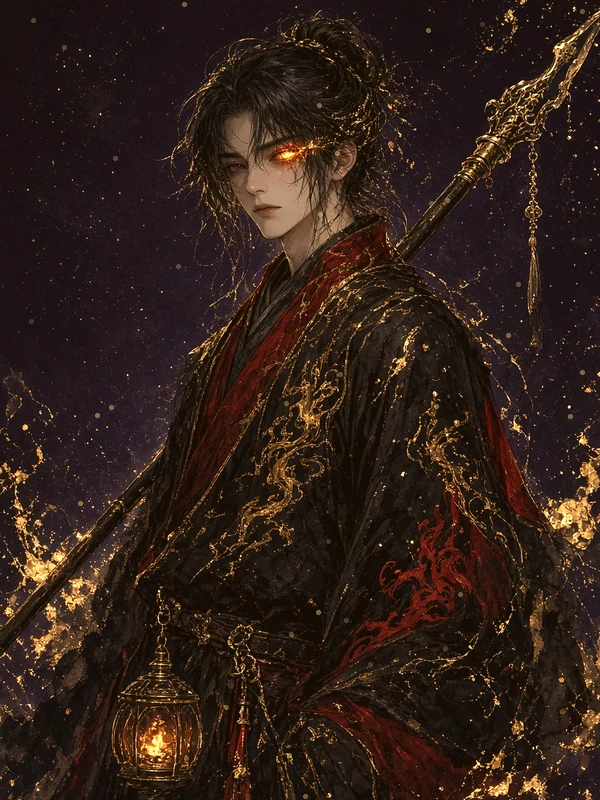
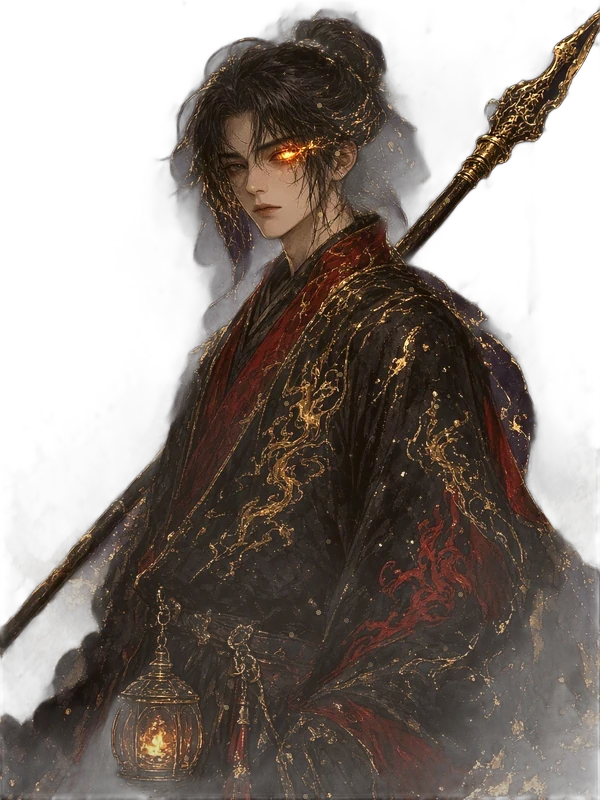
修复：主角朝向反了、界面卡死无出口、标题按钮堆叠
- 晏归原画朝左，行走/冲刺残影/探索按原画朝向翻转（heroFlip），不再倒着走
- 每个界面都有出口：VN 加「主城」，菜单加「回主城」，教学可跳过，安卓返回键按层级关闭（查看器→奖励→教学→面板→屏幕）
- 出征前清理残留界面/面板，修复关卡详情面板盖在战斗上导致暂停键点不动、重复叠加战斗循环
- 标题页精简为点击任意处进入，去掉多余角标按钮；继续游戏直接回主城
- 立绘去底（RGBA）

diff --git a/app/src/main.js b/app/src/main.js
@@ -8,7 +8,7 @@ import './premium.css';
 import './improvements.css';
 import { addMember, healAll, S, settings, meta, saveMeta, newGame, setToast, load, save, AUTO, ach, slotInfo, SAVE_SLOTS } from './engine/state.js';
 import { initAudio, playBgm, stopBgm } from './engine/audio.js';
-import { h, toast, asset } from './engine/ui.js';
+import { h, toast, asset, confirmBox } from './engine/ui.js';
 import { vnScreen, runMain, restoreScene, hooks, stopVN, clearBacklog, STORY } from './engine/vn.js';
 import { battle } from './engine/battle.js';
 import { titleScreen, worldScreen, regionScreen } from './ui/screens.js';
@@ -62,6 +62,7 @@ window.__zlj = { get S(){ return S; }, game, STORY, meta, settings, openMenu, ne
 hooks.battle = (enc, opts) => battle(enc, opts);
 hooks.toRegion = (id) => game.region(id);
 hooks.toTitle = () => game.title();
+hooks.toHub = async () => { if (S.inSub && !(await confirmBox('支线剧情进行中，现在回主城将从本段支线开头重来。确定离开？'))) return; for (const p of [...app.querySelectorAll('.panel-wrap')]) p.remove(); game.hub(); };
 hooks.openMenu = (tab) => openMenu(tab);
 hooks.ending = async (x) => { await endingScreen(x); game.title(); };
 
@@ -69,10 +70,22 @@ hooks.ending = async (x) => { await endingScreen(x); game.title(); };
 setInterval(()=>{ if (S && S.mode!=='title') S.playtime = (S.playtime||0) + 1; }, 1000);
 // 返回键（Android）
 window.__handleBack = () => {
-  const p=app.querySelector('.panel-wrap:last-of-type .close');
-  if(p) { p.click(); return true; }
-  if(app.querySelector('.screen.action')) { window.dispatchEvent(new KeyboardEvent('keydown',{key:'Escape'})); return true; }
-  if(S && S.mode!=='title') { openMenu(); return true; }
+  const last = sel => { const a = app.querySelectorAll(sel); return a.length ? a[a.length - 1] : null; };
+  // 由上到下：大图查看 → 奖励弹窗 → 新手引导 → 面板 → 当前画面
+  const viewer = last('.viewer'); if (viewer) { viewer.click(); return true; }
+  const rw = last('.reward'); if (rw) { rw.click(); return true; }
+  const tut = last('.tut'); if (tut) { (tut.querySelector('.tut-skip') || tut).click(); return true; }
+  const pw = [...app.querySelectorAll('.panel-wrap')].filter(p => !p.classList.contains('closing')).pop();
+  if (pw) { const c = pw.querySelector('.panel-head .close'); if (c) c.click(); else pw.remove(); return true; }
+  const scr = last('.screen');
+  if (!scr) return false;
+  if (scr.classList.contains('action')) { window.dispatchEvent(new KeyboardEvent('keydown', { key: 'Escape' })); return true; }
+  if (scr.classList.contains('title')) return false;
+  if (scr.classList.contains('vn') && scr.classList.contains('hideui')) { scr.classList.remove('hideui'); return true; }
+  const back = scr.querySelector('.hb-back, .rs-back, [data-back]'); if (back) { back.click(); return true; }
+  if (scr.classList.contains('result')) { const b = scr.querySelector('.rs-btns button:last-child'); if (b) { b.click(); return true; } }
+  if (scr.classList.contains('ending')) { scr.click(); return true; }
+  if (S && S.mode !== 'title') { openMenu(); return true; }
   return false;
 };
 document.addEventListener('backbutton',window.__handleBack,false);

diff --git a/app/src/ui/menu.js b/app/src/ui/menu.js
@@ -24,9 +24,10 @@ export function openMenu(tab='party'){
   const go = (k) => {
     for (const b of tabs.children) b.classList.toggle('on', b.dataset.k===k);
     p.body.replaceChildren(); p.body.scrollTop=0;
-    ({party:tabParty, bag:tabBag, craft:tabCraft, quest:tabQuest, codex:tabCodex, ach:(b)=>achList(b), save:(b)=>saveList(b,'save'), load:(b)=>saveList(b,'load'), settings:(b)=>settingsBody(b), title:tabTitle})[k](p.body, p);
+    ({party:tabParty, bag:tabBag, craft:tabCraft, quest:tabQuest, codex:tabCodex, ach:(b)=>achList(b), save:(b)=>saveList(b,'save'), load:(b)=>saveList(b,'load'), settings:(b)=>settingsBody(b), title:tabTitle, home:tabHome})[k](p.body, p);
   };
-  for (const [k,n] of TABS) tabs.append(h('button.tab', { 'data-k':k, onclick:(e)=>{ e.stopPropagation(); sfx('click'); go(k); } }, n));
+  const tabsNow = S && S.mode !== 'hub' && S.mode !== 'title' && S.mode !== 'action' ? [...TABS.slice(0, -1), ['home','回主城'], TABS[TABS.length-1]] : TABS;
+  for (const [k,n] of tabsNow) tabs.append(h('button.tab', { 'data-k':k, onclick:(e)=>{ e.stopPropagation(); sfx('click'); go(k); } }, n));
   go(tab); return p;
 }
 
@@ -154,6 +155,9 @@ function saveList(body, mode, pp){
   h('div.row.center', {},
     mode==='save' ? btn('导出存档码', async ()=>{ const c=exportCode(); try { await navigator.clipboard.writeText(c); toast('存档码已复制到剪贴板'); } catch(e){ promptBox('复制下面的存档码', '', c, true); } }, 'sm') : null,
     btn('导入存档码', async ()=>{ const c = await promptBox('粘贴存档码', '', '', true); if (!c) return; try { importCode(c); document.querySelectorAll('.panel-wrap').forEach(p=>p.remove()); game.resume(); toast('导入成功'); } catch(e){ toast('存档码无效'); } }, 'sm')));
+}
+function tabHome(body){
+  body.append(h('p.confirm-text', {}, '回到烬城主城（闯关、伙伴、铸坊）。剧情进度会保留，之后从主城「剧情」继续。'), h('div.row.center', {}, btn('回主城', ()=>{ document.querySelectorAll('.panel-wrap').forEach(p=>p.remove()); game.hub(); }, 'gold')));
 }
 function tabTitle(body){
   body.append(h('p.confirm-text', {}, '返回标题画面？未保存的进度将会丢失（自动存档会保留最近的章节开头）。'), h('div.row.center', {}, btn('返回标题', ()=>{ document.querySelectorAll('.panel-wrap').forEach(p=>p.remove()); game.title(); }, 'gold')));

diff --git a/app/src/ui/hub.js b/app/src/ui/hub.js
@@ -13,7 +13,7 @@ import { STAGES, REGION_STAGES, towerStage, rushStage, DAILY, dailyStage, KEY_SE
 import { GEAR, RARITY, GAFF, fxName, rarOf } from '../action/gear.js';
 import { runStage } from '../action/engine.js';
 import * as AP from '../action/progress.js';
-import { game, show } from '../main.js';
+import { game, show, clearScreens } from '../main.js';
 import { openMenu } from './menu.js';
 import { portrait as posePor, hubPose, resultPose } from '../engine/pose.js';
 
@@ -143,9 +143,10 @@ export function stageDetail(stage, opts = {}){
   }; render();
 }
 export async function launch(stage, opts = {}){
-  AP.ensureAct(); if (!S.act.tut.controls) { await controlsGuide(true); S.act.tut.controls = true; if(stage.id==='jincheng_1') S.act.tut.lamp=true; }
+  AP.ensureAct(); const noTut = window.__ZLJ_TEST && !window.__ZLJ_TEST.tut; if (noTut) { S.act.tut.controls = S.act.tut.lamp = S.act.tut.eye = S.act.tut.dream = S.act.tut.reso = true; }
+  if (!S.act.tut.controls) { await controlsGuide(true); S.act.tut.controls = true; if(stage.id==='jincheng_1') S.act.tut.lamp=true; }
   await signatureTutorials(stage);
-  const prev = S.mode; S.mode = 'action'; const res = await runStage(stage, opts); if(res.abandoned) return; S.mode = 'hub';
+  clearScreens(); const prev = S.mode; S.mode = 'action'; const res = await runStage(stage, opts); if(res.abandoned) return; S.mode = 'hub';
   if (res.quit) { opts.back ? opts.back() : show(adventureScreen(stage.region)); return; }
   if (res.retry) return launch(stage, opts);
   if (opts.hard && res.win) { res.gold *= 2; res.exp *= 2; }

diff --git a/app/src/engine/explore.js b/app/src/engine/explore.js
@@ -282,10 +282,10 @@ export function exploreScreen(id){
     const fol = S.formation.slice(1); st.fol = st.fol || fol.map((_,i)=>st.x - st.face*13*(i+1));
     for (let i=fol.length-1;i>=0;i--){ const lead = i ? st.fol[i-1] : st.x; let fx = st.fol[i]; const d = fx - lead; if (Math.abs(d) > 13) fx = lead + Math.sign(d)*13; else if (!st.vx && Math.abs(d) < 9) fx += Math.sign(d||-st.face)*0.15; st.fol[i] = fx;
       const fface = lead >= fx ? 1 : -1; const bob = st.vx ? Math.abs(Math.sin(st.walk + i*1.3))*0.8 : 0;
-      shadow(fx, 3.5); sprite('spr/p_'+fol[i], fx, 25, { flip: fface<0, y: GROUND - bob, alpha: 0.95 }); }
+      shadow(fx, 3.5); sprite('spr/p_'+fol[i], fx, 25, { flip: (fface<0) !== (fol[i]==='yangui'), y: GROUND - bob, alpha: 0.95 }); }
     // 玩家
     const bob = Math.abs(Math.sin(st.walk))*1.2; shadow(st.x, 5);
-    sprite('spr/p_'+S.formation[0], st.x, 29, { flip: st.face<0, y: GROUND - bob, sq: st.vx ? Math.sin(st.walk*2)*0.015 : Math.sin(st.t*2)*0.008 });
+    sprite('spr/p_'+S.formation[0], st.x, 29, { flip: (st.face<0) !== (S.formation[0]==='yangui'), y: GROUND - bob, sq: st.vx ? Math.sin(st.walk*2)*0.015 : Math.sin(st.t*2)*0.008 });
     glow(st.x + st.face*3, GROUND-16, 7+S.lamp, 'rgba(255,214,140,.55)', 0.8);
     if (st.strike>0) { const sx=(st.x + st.face*10 - st.cam)*U, sy=(GROUND-14)*U; ctx.save(); ctx.translate(sx,sy); ctx.scale(st.face,1); ctx.strokeStyle='rgba(255,231,160,'+(st.strike/0.35)+')'; ctx.lineWidth=4*dpr; ctx.beginPath(); ctx.arc(0,0,14*U*(1.2-st.strike), -1.2, 1.2); ctx.stroke(); ctx.restore(); }
     // 暗夜与灯光

diff --git a/app/src/ui/screens.js b/app/src/ui/screens.js
@@ -20,7 +20,7 @@ export function titleScreen(){
   const latest = latestSave();
   const enter = () => {
     sfx('click');
-    if (latest != null) game.loadSlot(latest);
+    if (latest != null) { if (load(latest)) { game.hub(); return; } }
     else game.newAdventure();
   };
   const root = h('div.screen.title', { onclick: (e) => {
@@ -37,8 +37,6 @@ export function titleScreen(){
     h('div.t-tap', {},
       h('div.t-tap-bar', {}, latest != null ? '轻触屏幕继续' : '轻触屏幕开始')),
     h('div.t-corner', {},
-      h('button.t-ico', { type:'button', title:'从序章开始剧情旅程', onclick:async e=>{e.stopPropagation();if(latest!=null && !(await confirmBox('开始新的剧情旅程？当前自动存档会随新旅程更新，请先保留手动存档。')))return;game.newGame();} }, '叙'),
-      h('button.t-ico', { type:'button', title:'检查游戏更新', onclick:e=>{e.stopPropagation();openUpdates();} }, '更'),
       h('button.t-ico', { type:'button', title:'读档', onclick:(e)=>{ e.stopPropagation(); openSaves('load'); } }, '档'),
       h('button.t-ico', { type:'button', title:'设置', onclick:(e)=>{ e.stopPropagation(); openSettings(); } }, '设')),
     h('div.t-foot', {}, `v${APP_VERSION}`));

diff --git a/app/src/engine/ui.js b/app/src/engine/ui.js
@@ -84,6 +84,7 @@ export function tutorial(key, steps, flags){
     const show = () => {
       const s = steps[i]; const el = s.el || (s.sel && document.querySelector(s.sel));
       tip.replaceChildren(h('div.tut-n', {}, `${i+1}/${steps.length}`), h('div.tut-t', {}, s.text), h('div.tut-tap', {}, '点击继续'));
+      if (!ov.querySelector('.tut-skip')) ov.append(h('button.tut-skip', { type:'button', onclick:(e)=>{ e.stopPropagation(); sfx('click'); ov.remove(); if (flags) flags['tut_'+key]=true; res(); } }, '跳过'));
       if (el) { const r = el.getBoundingClientRect(); const p=6;
         Object.assign(ring.style, { display:'block', left:(r.left-p)+'px', top:(r.top-p)+'px', width:(r.width+p*2)+'px', height:(r.height+p*2)+'px' });
         const below = r.top + r.height/2 < innerHeight/2; const tw = Math.min(360, innerWidth*0.42);

diff --git a/app/src/improvements.css b/app/src/improvements.css
@@ -48,3 +48,6 @@
 .screen.action .ak-msg{font-size:clamp(14px,2vw,18px);padding:0 24vw}
 @media(max-height:380px){.screen.action .ak-pad,.screen.action .ak-joy{transform:scale(calc(var(--control-scale,1)*.85))!important}.screen.action .ak-goals{top:calc(var(--st) + 45px)}}
 @media(prefers-reduced-motion:reduce){.zlj-trans,#zlj-dust,.t-tap-bar{animation:none!important}.screen,.panel.glow-on{animation:none!important}}
+
+/* 2026-10-26：引导可跳过 */
+.tut-skip{position:fixed;top:max(10px,env(safe-area-inset-top));right:max(14px,env(safe-area-inset-right));z-index:2;padding:.35rem .9rem;border-radius:999px;border:1px solid rgba(255,255,255,.28);background:rgba(10,10,14,.55);color:#e9e2cf;font-size:12px;letter-spacing:.1em}

diff --git a/app/src/engine/vn.js b/app/src/engine/vn.js
@@ -33,6 +33,7 @@ export function vnScreen(){
   D.tools = h('div.vn-tools', {},
     btn('记录', ()=>openBacklog(), 'tool'), D.autoBtn, D.skipBtn, D.voiceBtn,
     btn('隐藏', ()=>{ D.root.classList.add('hideui'); }, 'tool'),
+    btn('主城', (e)=>{ e && e.stopPropagation && e.stopPropagation(); hooks.toHub && hooks.toHub(); }, 'tool home'),
     btn('菜单', ()=>hooks.openMenu && hooks.openMenu(), 'tool'));
   D.box = h('div.vn-box', {}, D.face, D.name, D.text, D.next);
   D.choices = h('div.vn-choices'); D.card = h('div.vn-card');
